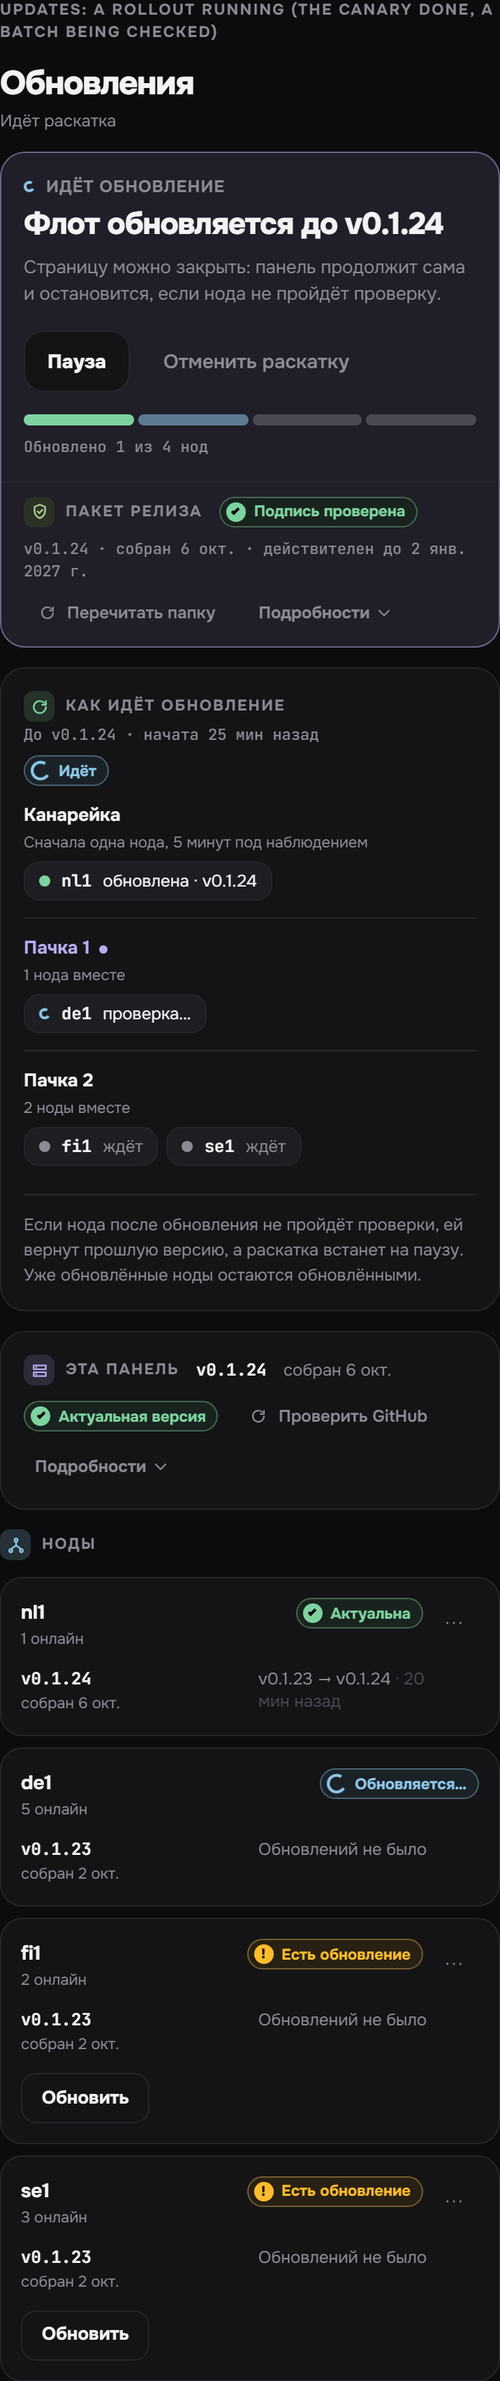
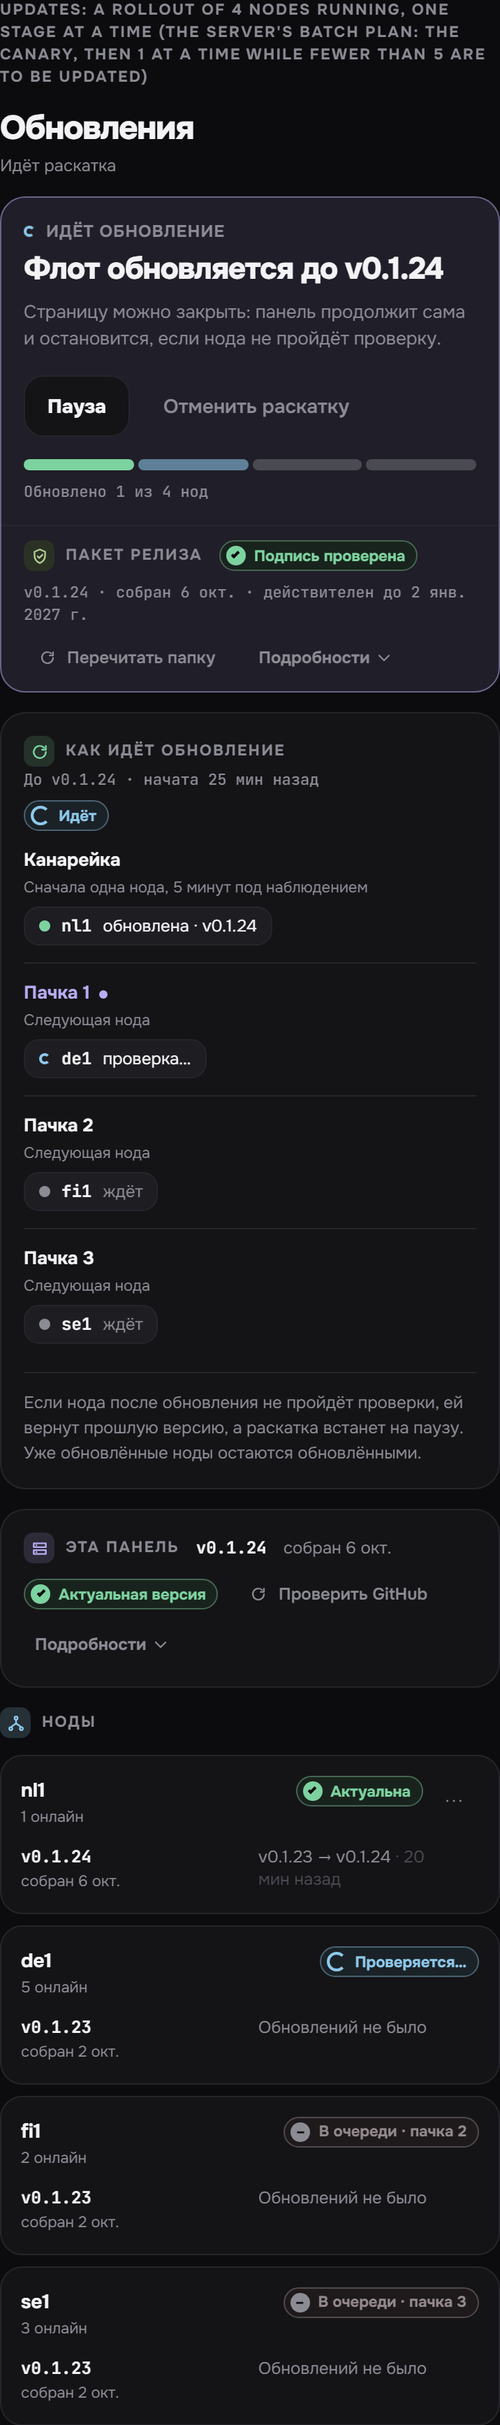
web: nodes of a running rollout say so and have no update of their own; the batch plan is the server's
A node still to go in the active rollout shows "Queued - batch N" / "Queued -
canary" / "Updating..." / "Checking..." in its row, with no Update button and no
Schedule in its menu (the server adds a node to a rollout once); Roll back stays
where it was allowed. The rollout window follows internal/panel/update/rollout.go:
the canary, then 1 at a time while fewer than 5 nodes are to be updated, else 2,
counted over the nodes still ticked, and says nothing of "the rest" for a single
node. The running scenario of the dev kit is the server's plan for 4 nodes (the
canary and three stages of one), a stage of one reads "The next node". Tests,
docs, notes and the running-rollout screenshots follow.

diff --git a/web/src/screens/updates/updates.test.tsx b/web/src/screens/updates/updates.test.tsx
@@ -382,13 +382,6 @@ describe("the Updates screen", () => {
     expect(startRollout).toHaveBeenCalledWith({ nodeIds: ["nod_2"], batchSize: 0, expectedVersion: "0.2.0-bbb", expectedBuilt: 200n });
   });
 
-  it("explains that a node already queued in the active rollout will update in its stage", async () => {
-    await mount(page({ nodes: outdated, rollout: rollout({ steps: [step({ nodeId: "nod_2", nodeName: "nl1" })] }) }));
-    await click(document.querySelector("button[aria-label='Update nl1']")!);
-    expect(dialog()!.textContent).toContain("already included in the active rollout");
-    expect(inDialog("Update now")?.disabled).toBe(true);
-  });
-
   it("schedules one offline node in the configured UTC+3 offset", async () => {
     scheduleNodeUpdate.mockResolvedValue({});
     const offline = node({ state: NodeUpdateState.OFFLINE });
@@ -666,5 +659,98 @@ describe("the folds of the Updates screen", () => {
     await mount(page({ nodes: [node()], panel: { ...page().panel, update: { ...page().panel.update, supported: false } } }));
     expect(detailsOf("up-panel-details")!.getAttribute("aria-expanded")).toBe("true");
     expect(text()).toContain("Updating the panel itself");
+  });
+});
+
+describe("the nodes of a rollout in progress", () => {
+  const table = () => document.querySelector<HTMLElement>(".md\\:block")!;
+  const row = (name: string) => [...table().querySelectorAll<HTMLElement>(":scope > div:not(:first-child)")].find((r) => r.textContent?.startsWith(name))!;
+  // the server plans a canary and then one node per stage while fewer than five are to be updated
+  const fleet = [
+    node({ nodeId: "nod_1", name: "nl1", state: NodeUpdateState.UP_TO_DATE, lastUpdate: { outcome: "ok", fromVersion: "0.1.0", toVersion: "0.2.0", atUnix: 900 } }),
+    node({ nodeId: "nod_2", name: "de1", state: NodeUpdateState.UPDATING }),
+    node({ nodeId: "nod_3", name: "fi1", state: NodeUpdateState.OUTDATED, lastUpdate: { outcome: "ok", fromVersion: "0.0.9", toVersion: "0.1.0", atUnix: 5 } }),
+    node({ nodeId: "nod_4", name: "se1", state: NodeUpdateState.OUTDATED }),
+    node({ nodeId: "nod_5", name: "no1", state: NodeUpdateState.OUTDATED }),
+  ];
+  const steps = [
+    step({ nodeId: "nod_1", nodeName: "nl1", stage: 0, state: StepState.PASSED }),
+    step({ nodeId: "nod_2", nodeName: "de1", stage: 1, state: StepState.GATING }),
+    step({ nodeId: "nod_3", nodeName: "fi1", stage: 2, state: StepState.PENDING }),
+    step({ nodeId: "nod_4", nodeName: "se1", stage: 3, state: StepState.PENDING }),
+  ];
+
+  it("say where they stand in it, and offer no update of their own", async () => {
+    await mount(page({ nodes: fleet, rollout: rollout({ steps }) }));
+    expect(row("fi1").textContent).toContain("Queued · batch 2");
+    expect(row("se1").textContent).toContain("Queued · batch 3");
+    expect(row("de1").textContent).toContain("Checking…");
+    expect(row("fi1").textContent).not.toContain("Update available");
+    for (const n of ["fi1", "se1", "de1", "nl1"]) expect(document.querySelector(`button[aria-label='Update ${n}']`), n).toBeNull();
+    // a node that is not in the rollout can still be added to it
+    expect(row("no1").textContent).toContain("Update available");
+    expect(document.querySelector("button[aria-label='Update no1']")).not.toBeNull();
+  });
+
+  it("name the canary while it waits, and the node being installed", async () => {
+    await mount(
+      page({
+        nodes: [node({ nodeId: "nod_1", name: "nl1", state: NodeUpdateState.OUTDATED }), node({ nodeId: "nod_2", name: "de1", state: NodeUpdateState.UPDATING })],
+        rollout: rollout({ steps: [step({ nodeId: "nod_1", nodeName: "nl1", stage: 0, state: StepState.PENDING }), step({ nodeId: "nod_2", nodeName: "de1", stage: 1, state: StepState.SENT })] }),
+      }),
+    );
+    expect(row("nl1").textContent).toContain("Queued · canary");
+    expect(row("de1").textContent).toContain("Updating…");
+  });
+
+  it("keep Roll back where it is allowed, and lose Schedule", async () => {
+    await mount(page({ nodes: fleet, rollout: rollout({ steps }) }));
+    expect(row("fi1").querySelector("button[aria-label='More actions for fi1']")).not.toBeNull();
+    await press(row("fi1").querySelector("button[aria-label='More actions for fi1']"));
+    expect([...document.querySelectorAll('[role="menuitem"]')].map((i) => i.textContent)).toEqual(["Roll back…"]);
+    // the others have nothing to offer: no menu at all
+    expect(row("se1").querySelector("button[aria-label='More actions for se1']")).toBeNull();
+    // a node that is not in the rollout keeps its Schedule
+    await click(menuItem("Roll back…")); // close the menu
+    await click(inDialog("Cancel"));
+    await press(row("nl1").querySelector("button[aria-label='More actions for nl1']"));
+    expect([...document.querySelectorAll('[role="menuitem"]')].map((i) => i.textContent)).toEqual(["Roll back…"]);
+  });
+
+  it("are the same while the rollout is paused", async () => {
+    await mount(page({ nodes: fleet, rollout: rollout({ status: RolloutStatus.PAUSED, pauseKey: "updates.pause.owner", steps }) }));
+    expect(row("fi1").textContent).toContain("Queued · batch 2");
+    expect(document.querySelector("button[aria-label='Update fi1']")).toBeNull();
+  });
+
+  it("go back to their own state once the rollout is over", async () => {
+    await mount(page({ nodes: fleet, rollout: rollout({ status: RolloutStatus.CANCELLED, steps }) }));
+    expect(row("fi1").textContent).toContain("Update available");
+    expect(document.querySelector("button[aria-label='Update fi1']")).not.toBeNull();
+  });
+});
+
+describe("the rollout window follows the server's batch plan", () => {
+  const many = (n: number) => Array.from({ length: n }, (_, i) => node({ nodeId: `nod_${i + 1}`, name: `n${i + 1}`, state: NodeUpdateState.OUTDATED, onlineUsers: i }));
+
+  it("goes one at a time after the canary while fewer than five nodes are to be updated", async () => {
+    await mount(page({ nodes: many(4) }));
+    await click(bulk());
+    expect(dialog()!.textContent).toContain("Then the rest, 1 at a time.");
+  });
+
+  it("goes two at a time from five nodes, and counts only the nodes still ticked", async () => {
+    await mount(page({ nodes: many(5) }));
+    await click(bulk());
+    expect(dialog()!.textContent).toContain("Then the rest, 2 at a time.");
+    await click(dialog()!.querySelector("input[type=checkbox]"));
+    expect(dialog()!.textContent).toContain("Then the rest, 1 at a time.");
+  });
+
+  it("does not talk of a rest when there is a single node", async () => {
+    await mount(page({ nodes: many(1) }));
+    await click(bulk());
+    expect(dialog()!.textContent).toContain("This node is checked for 5 minutes after the update.");
+    expect(dialog()!.textContent).not.toContain("at a time");
   });
 });

diff --git a/web/src/screens/updates/nodes.tsx b/web/src/screens/updates/nodes.tsx
@@ -6,12 +6,12 @@ import { SectionLabel } from "@/components/ui/bits";
 import { Button } from "@/components/ui/button";
 import { Icon } from "@/components/ui/icons";
 import { Notice } from "@/components/ui/notice";
-import { StatusPill, kindTextClass } from "@/components/ui/status";
-import { BundleStatus, NodeUpdateState } from "@/gen/mistgate/admin/v1/update_pb";
+import { StatusPill, kindTextClass, type StatusKind } from "@/components/ui/status";
+import { BundleStatus, NodeUpdateState, StepState } from "@/gen/mistgate/admin/v1/update_pb";
 import { useT } from "@/i18n";
 import { cx } from "@/lib/cx";
 import { useFmt, type Fmt } from "@/lib/format";
-import { canRollbackNode, canUpdateNode, lastUpdateView, manualCommands, nodeStateKey, nodeStateKind, updateDateTimeAtOffset, updateTimezoneName, type NodeUpdate, type Updates } from "@/lib/updates";
+import { canRollbackNode, canUpdateNode, inActiveRollout, lastUpdateView, manualCommands, nodeStateKey, nodeStateKind, updateDateTimeAtOffset, updateTimezoneName, pendingStep, type NodeUpdate, type Rollout, type Step, type Updates } from "@/lib/updates";
 
 // The same columns for the header and every row, so they line up: node, version, state, last update, actions.
 const colsOwner = "md:grid-cols-[minmax(120px,1fr)_130px_150px_minmax(180px,1.6fr)_160px]";
@@ -57,11 +57,19 @@ function LastUpdate({ node, fmt }: { node: NodeUpdate; fmt: Fmt }) {
   );
 }
 
-function State({ node, open, onToggle }: { node: NodeUpdate; open: boolean; onToggle: () => void }) {
+/** A node still to go in the running rollout says so, in the place of "Update available": queued (in which stage), or being updated. */
+function queuedPill(t: ReturnType<typeof useT>, step: Step): { kind: StatusKind; label: string } {
+  if (step.state === StepState.SENT) return { kind: "busy", label: t("up.state.updating") };
+  if (step.state === StepState.GATING) return { kind: "busy", label: t("up.state.checking") };
+  return { kind: "off", label: step.stage === 0 ? t("up.state.queuedCanary") : t("up.state.queued", { n: step.stage }) };
+}
+
+function State({ node, step, open, onToggle }: { node: NodeUpdate; step?: Step; open: boolean; onToggle: () => void }) {
   const t = useT();
+  const queued = step ? queuedPill(t, step) : null;
   return (
     <div className="flex flex-col items-start gap-1">
-      <StatusPill kind={nodeStateKind(node.state)} label={t(nodeStateKey(node.state))} sm />
+      <StatusPill kind={queued ? queued.kind : nodeStateKind(node.state)} label={queued ? queued.label : t(nodeStateKey(node.state))} sm />
       {unguarded(node) && <span className={cx("text-[11px] font-semibold", kindTextClass.warn)}>{t("up.noGuard")}</span>}
       {manual(node) && (
         <button
@@ -148,10 +156,11 @@ function RowMenu({ node, onSchedule, onRollback, canSchedule }: { node: NodeUpda
 
 /** One main button per row ("Update", or "Schedule" when one is saved), the rest in the menu next to it. */
 /** `part`: the phone puts the menu beside the state and keeps only the main button for the foot of the card. */
-function Actions({ node, data, part = "all", onUpdate, onSchedule, onRollback }: { node: NodeUpdate; data: Updates; part?: "all" | "main" | "menu"; onUpdate: () => void; onSchedule: () => void; onRollback: () => void }) {
+function Actions({ node, data, joined, part = "all", onUpdate, onSchedule, onRollback }: { node: NodeUpdate; data: Updates; joined: boolean; part?: "all" | "main" | "menu"; onUpdate: () => void; onSchedule: () => void; onRollback: () => void }) {
   const t = useT();
   const hasSchedule = node.scheduledUnix > 0;
-  const canManageUpdate = hasSchedule || (data.bundle?.status === BundleStatus.TRUSTED && canUpdateNode(node, data.bundle.built));
+  // a node of the active rollout is updated by it: no update or schedule of its own (the server adds a node to a rollout once)
+  const canManageUpdate = !joined && (hasSchedule || (data.bundle?.status === BundleStatus.TRUSTED && canUpdateNode(node, data.bundle.built)));
   const menu = <RowMenu node={node} canSchedule={canManageUpdate && !hasSchedule} onSchedule={onSchedule} onRollback={onRollback} />;
   if (part === "menu") return menu;
   if (part === "main" && !canManageUpdate) return null;
@@ -187,6 +196,7 @@ export function NodeTable({
   nodes,
   data,
   owner,
+  rollout,
   onUpdate,
   onSchedule,
   onRollback,
@@ -195,6 +205,8 @@ export function NodeTable({
   /** The page's data: the bundle and the panel's dist folder the manual commands are built from. */
   data: Updates;
   owner: boolean;
+  /** The active rollout, if any: its nodes show where they stand in it and offer no update of their own. */
+  rollout?: Rollout | null;
   onUpdate: (n: NodeUpdate) => void;
   onSchedule: (n: NodeUpdate) => void;
   onRollback: (n: NodeUpdate) => void;
@@ -210,7 +222,7 @@ export function NodeTable({
     });
   const heads = [t("up.nodes.col.node"), t("up.nodes.col.version"), t("up.nodes.col.state"), t("up.nodes.col.last")];
   const noGuard = nodes.filter(unguarded).map((n) => n.name);
-  const actions = (n: NodeUpdate, part: "all" | "main" | "menu" = "all") => <Actions node={n} data={data} part={part} onUpdate={() => onUpdate(n)} onSchedule={() => onSchedule(n)} onRollback={() => onRollback(n)} />;
+  const actions = (n: NodeUpdate, part: "all" | "main" | "menu" = "all") => <Actions node={n} data={data} joined={inActiveRollout(rollout, n.nodeId)} part={part} onUpdate={() => onUpdate(n)} onSchedule={() => onSchedule(n)} onRollback={() => onRollback(n)} />;
 
   return (
     <section className="flex flex-col gap-3">
@@ -233,7 +245,7 @@ export function NodeTable({
                 <div className={cx("grid min-h-[60px] items-center gap-4 px-5 py-2.5 text-[13px]", owner ? colsOwner : colsView)}>
                   <Name node={n} />
                   <Version node={n} fmt={fmt} />
-                  <State node={n} open={open.has(n.nodeId)} onToggle={() => toggle(n.nodeId)} />
+                  <State node={n} step={pendingStep(rollout, n.nodeId)} open={open.has(n.nodeId)} onToggle={() => toggle(n.nodeId)} />
                   <LastUpdate node={n} fmt={fmt} />
                   {owner && actions(n)}
                 </div>
@@ -251,7 +263,7 @@ export function NodeTable({
                 <div className="flex items-start justify-between gap-2">
                   <Name node={n} />
                   <div className="flex items-start gap-1">
-                    <State node={n} open={open.has(n.nodeId)} onToggle={() => toggle(n.nodeId)} />
+                    <State node={n} step={pendingStep(rollout, n.nodeId)} open={open.has(n.nodeId)} onToggle={() => toggle(n.nodeId)} />
                     {owner && actions(n, "menu")}
                   </div>
                 </div>

diff --git a/web/src/i18n/updates.ts b/web/src/i18n/updates.ts
@@ -68,6 +68,7 @@ export const en = {
   "up.rollout.start": "Update {n} node|Update {n} nodes",
   "up.rollout.title": "Update to {version}",
   "up.rollout.lead": "The canary goes first and is checked for 5 minutes. Then the rest, {batch} at a time.",
+  "up.rollout.leadOne": "This node is checked for 5 minutes after the update.",
   "up.rollout.nodes": "Nodes to update",
   "up.rollout.canary": "Canary",
   "up.rollout.restart": "Each node is offline for a few seconds while its agent restarts.",
@@ -118,7 +119,7 @@ export const en = {
   "up.ro.canary": "Canary",
   "up.ro.canary.what": "One node first, checked for 5 minutes",
   "up.ro.batch": "Batch {n}",
-  "up.ro.batch.what": "{n} node together|{n} nodes together",
+  "up.ro.batch.what": "The next node|{n} nodes together",
   "up.ro.skipped": "Skipped",
   "up.ro.skipped.what": "These nodes were not touched",
   "up.ro.show": "Show stages",
@@ -155,6 +156,9 @@ export const en = {
   "up.state.failed": "Update failed",
   "up.state.unsupported": "Update by hand",
   "up.state.offline": "Offline",
+  "up.state.queued": "Queued · batch {n}",
+  "up.state.queuedCanary": "Queued · canary",
+  "up.state.checking": "Checking…",
   "up.noGuard": "No guard against repeated crashes",
   "up.howto.toggle": "How to update",
   "up.howto.copy": "1. On the panel’s server: put the new agent on the node",
@@ -414,6 +418,7 @@ export const ru: Record<keyof typeof en, string> = {
   "up.rollout.start": "Обновить {n} ноду|Обновить {n} ноды|Обновить {n} нод",
   "up.rollout.title": "Обновить до {version}",
   "up.rollout.lead": "Первой идёт канарейка — её проверяют 5 минут. Затем остальные, по {batch} за раз.",
+  "up.rollout.leadOne": "После обновления эту ноду проверяют 5 минут.",
   "up.rollout.nodes": "Ноды для обновления",
   "up.rollout.canary": "Канарейка",
   "up.rollout.restart": "Пока агент перезапускается, нода недоступна несколько секунд.",
@@ -464,7 +469,7 @@ export const ru: Record<keyof typeof en, string> = {
   "up.ro.canary": "Канарейка",
   "up.ro.canary.what": "Сначала одна нода, 5 минут под наблюдением",
   "up.ro.batch": "Пачка {n}",
-  "up.ro.batch.what": "{n} нода вместе|{n} ноды вместе|{n} нод вместе",
+  "up.ro.batch.what": "Следующая нода|{n} ноды вместе|{n} нод вместе",
   "up.ro.skipped": "Пропущены",
   "up.ro.skipped.what": "Эти ноды не трогали",
   "up.ro.show": "Показать этапы",
@@ -501,6 +506,9 @@ export const ru: Record<keyof typeof en, string> = {
   "up.state.failed": "Обновление не удалось",
   "up.state.unsupported": "Обновить вручную",
   "up.state.offline": "Не в сети",
+  "up.state.queued": "В очереди · пачка {n}",
+  "up.state.queuedCanary": "В очереди · канарейка",
+  "up.state.checking": "Проверяется…",
   "up.noGuard": "Нет защиты от повторных падений",
   "up.howto.toggle": "Как обновить",
   "up.howto.copy": "1. На сервере панели: положи новый агент на ноду",

diff --git a/web/src/lib/updates.ts b/web/src/lib/updates.ts
@@ -128,6 +128,19 @@ export function useOlderNodes(): ReadonlySet<string> {
   return useMemo(() => new Set((data?.nodes ?? []).filter((n) => isOlder(n.state)).map((n) => n.nodeId)), [data]);
 }
 
+/**
+ * The step of a node that is still to go in the active rollout (waiting, being sent or being checked). Such a node is part
+ * of the rollout: the server refuses to add it again, so its row offers no update of its own. Undefined for a node that is
+ * not in the active rollout, or whose step is decided.
+ */
+export function pendingStep(r: Rollout | null | undefined, nodeId: string): Step | undefined {
+  if (!r || !isActive(r)) return undefined;
+  return r.steps.find((s) => s.nodeId === nodeId && (s.state === StepState.PENDING || s.state === StepState.SENT || s.state === StepState.GATING));
+}
+
+/** Is the node in the active rollout at all, decided or not? The server adds a node to a rollout once: a decided step blocks a new one too. */
+export const inActiveRollout = (r: Rollout | null | undefined, nodeId: string) => !!r && isActive(r) && r.steps.some((s) => s.nodeId === nodeId);
+
 /** Nodes the "update all" button would take: the server's own rule for an empty node list. */
 export const outdatedNodes = (nodes: readonly NodeUpdate[]) => nodes.filter((n) => n.state === NodeUpdateState.OUTDATED);
 

diff --git a/web/src/screens/dev-kit-redesign.tsx b/web/src/screens/dev-kit-redesign.tsx
@@ -304,7 +304,7 @@ const running = page({
       { ...doneStep("nod_nl1", "nl1", 0, 25 * 60), finishedUnix: NOW - 20 * 60 },
       runningStep("nod_de1", "de1", 1, StepState.GATING),
       runningStep("nod_fi1", "fi1", 2, StepState.PENDING),
-      runningStep("nod_se1", "se1", 2, StepState.PENDING),
+      runningStep("nod_se1", "se1", 3, StepState.PENDING),
     ],
   },
 });
@@ -333,7 +333,7 @@ export function UpdatesKit() {
       <Shot id="updates-available" title="Updates: 2 of 4 nodes on the new agent, the rest to update, the last rollout folded" seed={[[updatesQuery.queryKey, available]]}>
         <UpdatesScreen />
       </Shot>
-      <Shot id="updates-running" title="Updates: a rollout running (the canary done, a batch being checked)" seed={[[updatesQuery.queryKey, running]]}>
+      <Shot id="updates-running" title="Updates: a rollout of 4 nodes running, one stage at a time (the server's batch plan: the canary, then 1 at a time while fewer than 5 are to be updated)" seed={[[updatesQuery.queryKey, running]]}>
         <UpdatesScreen />
       </Shot>
       <Shot id="updates-panel" title="Updates: every node current, a signed panel release is out" seed={[[updatesQuery.queryKey, panelOffer]]}>

diff --git a/web/src/screens/updates/dialogs.tsx b/web/src/screens/updates/dialogs.tsx
@@ -39,7 +39,7 @@ export function RolloutDialog({
       open
       onOpenChange={(o) => !o && !busy && onClose()}
       title={t("up.rollout.title", { version })}
-      description={t("up.rollout.lead", { batch: defaultBatch(picked.length) })}
+      description={picked.length > 1 ? t("up.rollout.lead", { batch: defaultBatch(picked.length) }) : t("up.rollout.leadOne")}
       footer={
         <>
           <Button variant="ghost" size="md" disabled={busy} onClick={onClose}>

diff --git a/web/src/screens/updates/index.tsx b/web/src/screens/updates/index.tsx
@@ -102,6 +102,7 @@ export function UpdatesScreen() {
         nodes={d.nodes}
         data={d}
         owner={owner}
+        rollout={activeRollout}
         onUpdate={(n) => setDialog({ kind: "update", node: n })}
         onSchedule={(n) => setDialog({ kind: "update", node: n, mode: "schedule" })}
         onRollback={(n) => setDialog({ kind: "rollback", node: n })}

diff --git a/docs/ru/operations/updates.md b/docs/ru/operations/updates.md
@@ -54,7 +54,7 @@ description: Как агенты нод обновляются из подпис
 - **Верхняя карточка**: где стоит флот («2 из 4 нод на v0.1.24»), полоса из отрезков по одному на ноду, под ней счётчики по состояниям, и одна главная кнопка. Когда есть что обновлять, это **Обновить N нод** (см. ниже); пока идёт раскатка — **Пауза** / **Продолжить** / **Отменить раскатку**. В её нижней строке **Пакет релиза**: пакет в `<data-dir>/dist`, вердикт проверки подписи, версия и сроки, **Перечитать папку** и свёрнутые подробности (файлы, причина отказа, шаги для самостоятельной сборки пакета).
 - **Раскатка**: идущая раскатка стоит сразу под верхней карточкой, по этапам (канарейка, пачки) с нодами в каждом; последняя законченная — после списка нод, свёрнутой в одну строку (**Показать этапы**), если она закончилась хорошо.
 - **Эта панель**: одна строка с версией, датой сборки, состоянием и кнопкой **Проверить GitHub**. Когда вышел подписанный релиз, карточка выделяется и в ней появляется **Обновить панель**. Отпечаток ключа релиза, SHA-256 и пояснение скрыты под **Подробности**; панель, которая не умеет обновлять себя, раскрывает шаги сама.
-- **Ноды**: каждая нода с версией агента и датой сборки, состоянием и последним обновлением в одну строку. Владельцу в строке доступна одна основная кнопка: **Обновить** (или **Расписание**, если обновление уже назначено); рядом меню **⋯** с **Запланировать…** и **Откатить…**.
+- **Ноды**: каждая нода с версией агента и датой сборки, состоянием и последним обновлением в одну строку. Владельцу в строке доступна одна основная кнопка: **Обновить** (или **Расписание**, если обновление уже назначено); рядом меню **⋯** с **Запланировать…** и **Откатить…**. Нода, входящая в идущую раскатку, говорит об этом в строке («В очереди · пачка 2», «Обновляется…») и не имеет своего обновления и расписания; **Откатить…** остаётся там, где был разрешён.
 
 | Состояние ноды | Значение |
 |---|---|

diff --git a/design/admin-pagination-updates.md b/design/admin-pagination-updates.md
@@ -93,6 +93,9 @@
    «Последнее обновление» в одну строку («v0.1.22 → v0.1.23 · 9 ч назад»), причина — только при откате/сбое. В строке
    одна основная кнопка («Обновить», либо «Расписание», если оно назначено) и меню «⋯» с «Запланировать…» и «Откатить…».
    Откат по-прежнему подтверждается окном с версией, к которой вернётся нода. На телефоне — карточки, меню рядом с состоянием.
+   Нода, которая входит в идущую раскатку (ждёт, ставится или проверяется), говорит об этом в строке («В очереди · пачка 2», «В очереди · канарейка», «Обновляется…», «Проверяется…») и не предлагает своего «Обновить»; в меню у неё нет «Запланировать…» (сервер добавляет ноду в раскатку один раз: ddNodeToRunningRollout отвечает «уже включена»). «Откатить…» остаётся там, где разрешён и раньше (canRollbackNode). Нода вне раскатки по-прежнему может быть добавлена в неё кнопкой «Обновить».
+
+   План пачек берётся с сервера (internal/panel/update/rollout.go): канарейка одна (этап 0), дальше defaultBatch(число нод к обновлению, канарейка включена): по одной, пока их меньше пяти, иначе по две; пропущенные ноды — отдельный этап в конце. Окно раскатки считает так же по отмеченным нодам («по 1 за раз» / «по 2 за раз»; для одной ноды про «остальные» не говорит), а данные dev-kit и вид раскатки с ним согласованы (4 ноды = канарейка и три этапа по одной).
 
 «Обновить N нод» открывает окно: все обновляемые ноды с галочками, канарейка названа (меньше всего людей онлайн, как у панели),
 фраза про 5 минут и пачки, предупреждение про перезапуск и откат. Вызов — тот же `StartRollout`: закреплён за показанным пакетом,

diff --git a/docs/en/operations/updates.md b/docs/en/operations/updates.md
@@ -54,7 +54,7 @@ From top to bottom, by what needs you:
 - **The top card**: where the fleet stands ("2 of 4 nodes on v0.1.24"), a bar with one segment per node, the count of each state under it, and the one main button. With something to update that is **Update N nodes** (below); while a rollout runs, **Pause** / **Resume** / **Cancel rollout**. Its last line is the **Release bundle**: the bundle in `<data-dir>/dist`, the verdict of the signature check, its version and dates, **Read the folder again**, and the folded details (files, the reason for a refusal, the steps to make a bundle yourself).
 - **The rollout**: a running one sits right under the top card, by stage (the canary, the batches) with the nodes of each; the last finished one comes after the node list, folded to one line (**Show stages**) when it ended well.
 - **This panel**: one line with its version, build date, state and **Check GitHub**. When a signed release is out, the card stands out and carries **Update panel**. The release key fingerprint, the SHA-256 and the explanation are behind **Details**; a panel that cannot update itself opens its steps on its own.
-- **Nodes**: every node with its agent version and build date, its state and its last update on one line. The owner gets one main button per row, **Update** (or **Schedule** when an update is already scheduled), and a **⋯** menu beside it with **Schedule…** and **Roll back…**.
+- **Nodes**: every node with its agent version and build date, its state and its last update on one line. The owner gets one main button per row, **Update** (or **Schedule** when an update is already scheduled), and a **⋯** menu beside it with **Schedule…** and **Roll back…**. A node that belongs to the running rollout says so in its row ("Queued · batch 2", "Updating…") and has no update or schedule of its own; **Roll back…** stays where it was allowed.
 
 | Node state | Meaning |
 |---|---|
